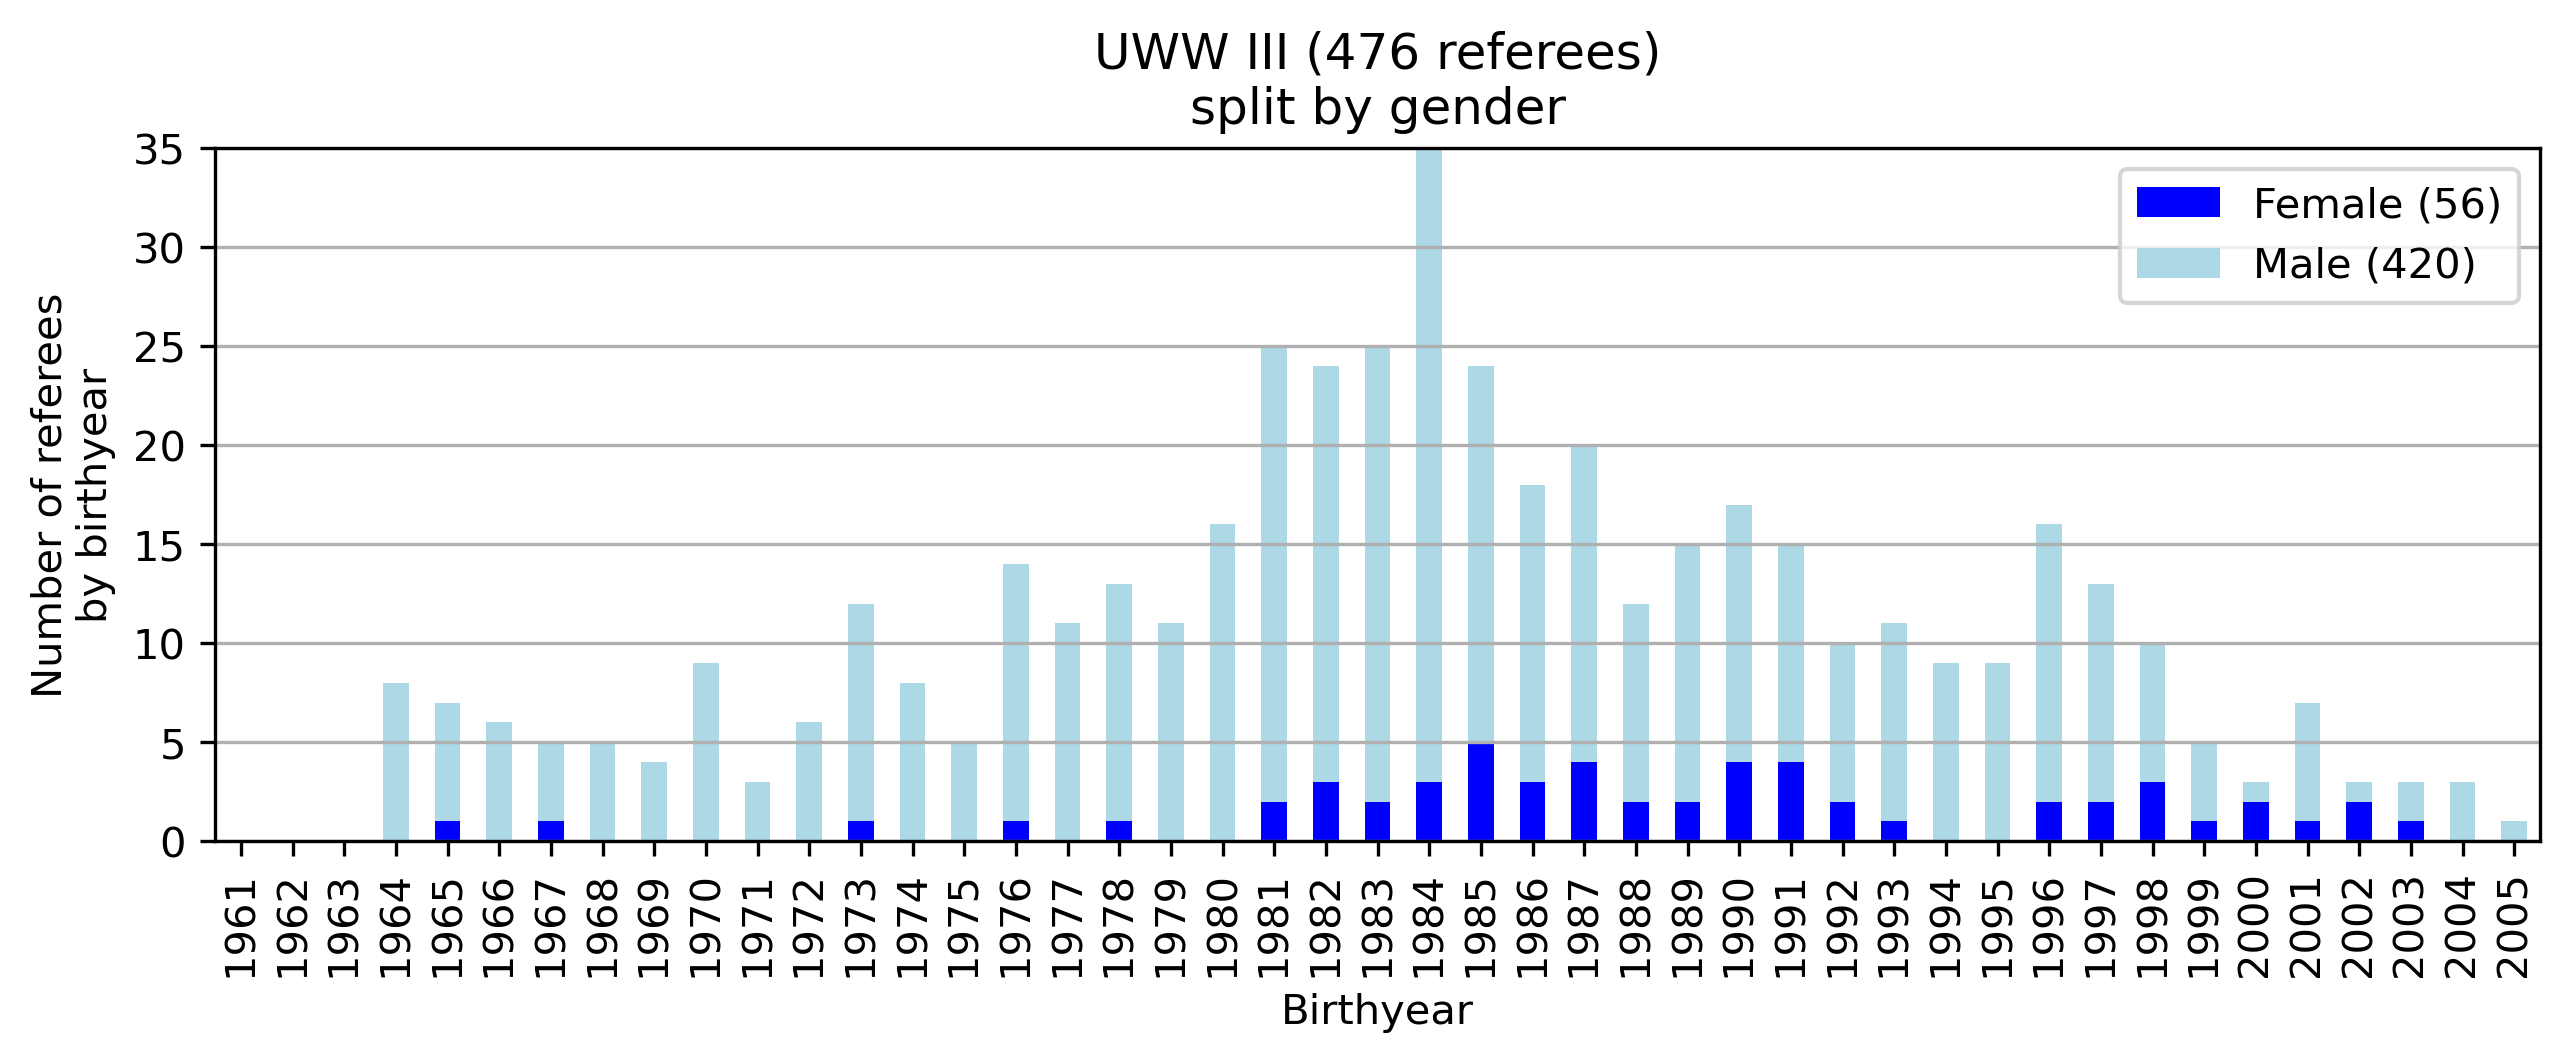
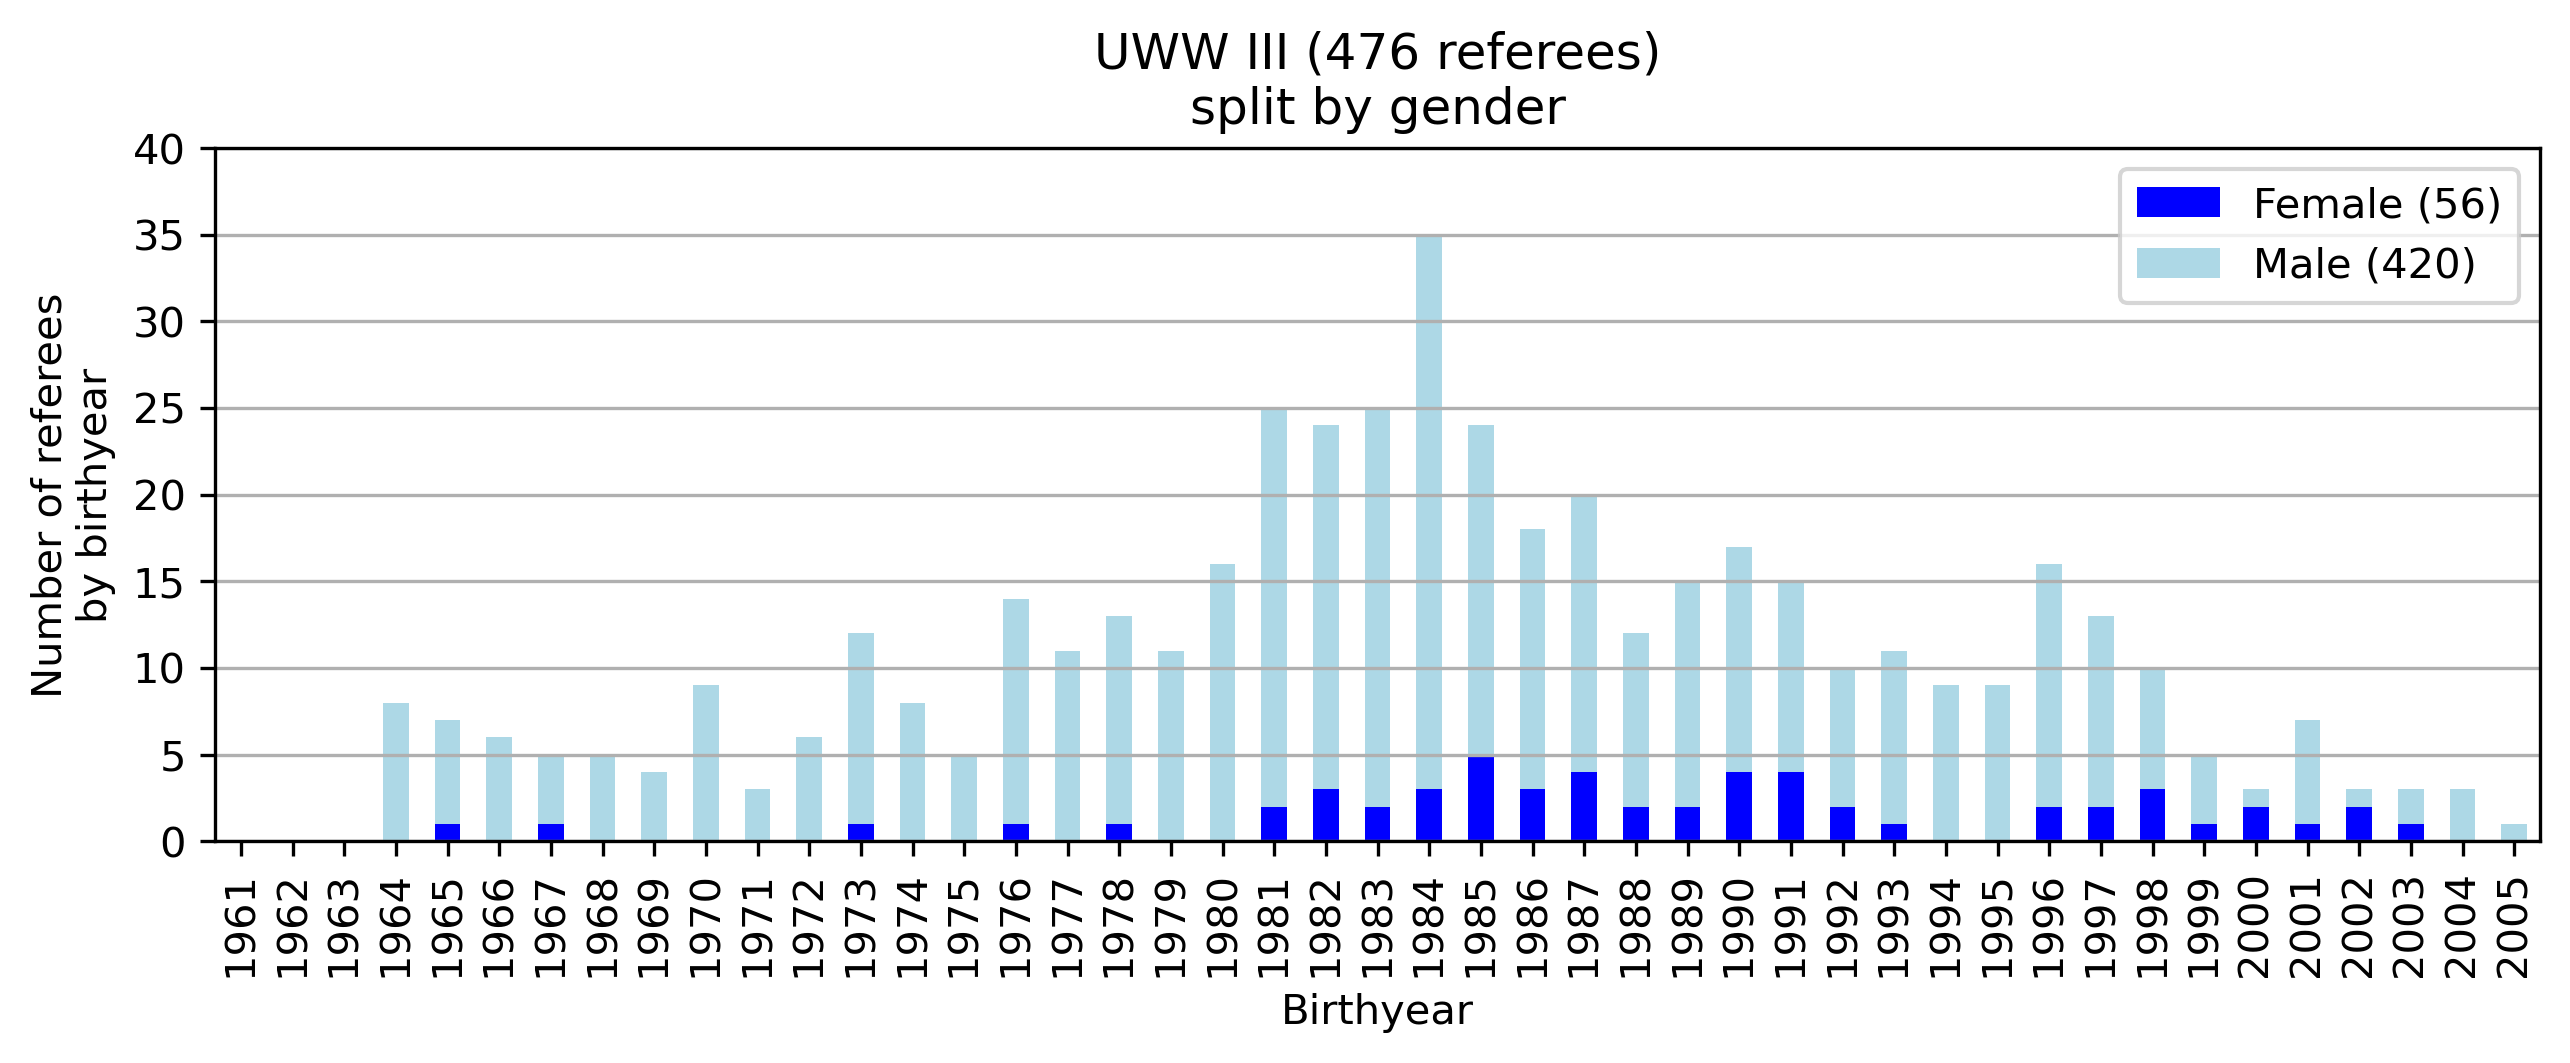
Scale up graphs

diff --git a/graph.py b/graph.py
@@ -31,7 +31,7 @@ def graph_data():
         ax.set_title(f"UWW {category} ({nb_ref_cat} referees)\nsplit by gender")
         ax.set_xlabel("Birthyear")
         ax.set_ylabel("Number of referees\nby birthyear")
-        ax.set_ylim(0, 35)
+        ax.set_ylim(0, 40)
         ax.grid(axis='y')
         plt.savefig(f'img/stats_{category}.png', dpi=300, bbox_inches='tight')
 
